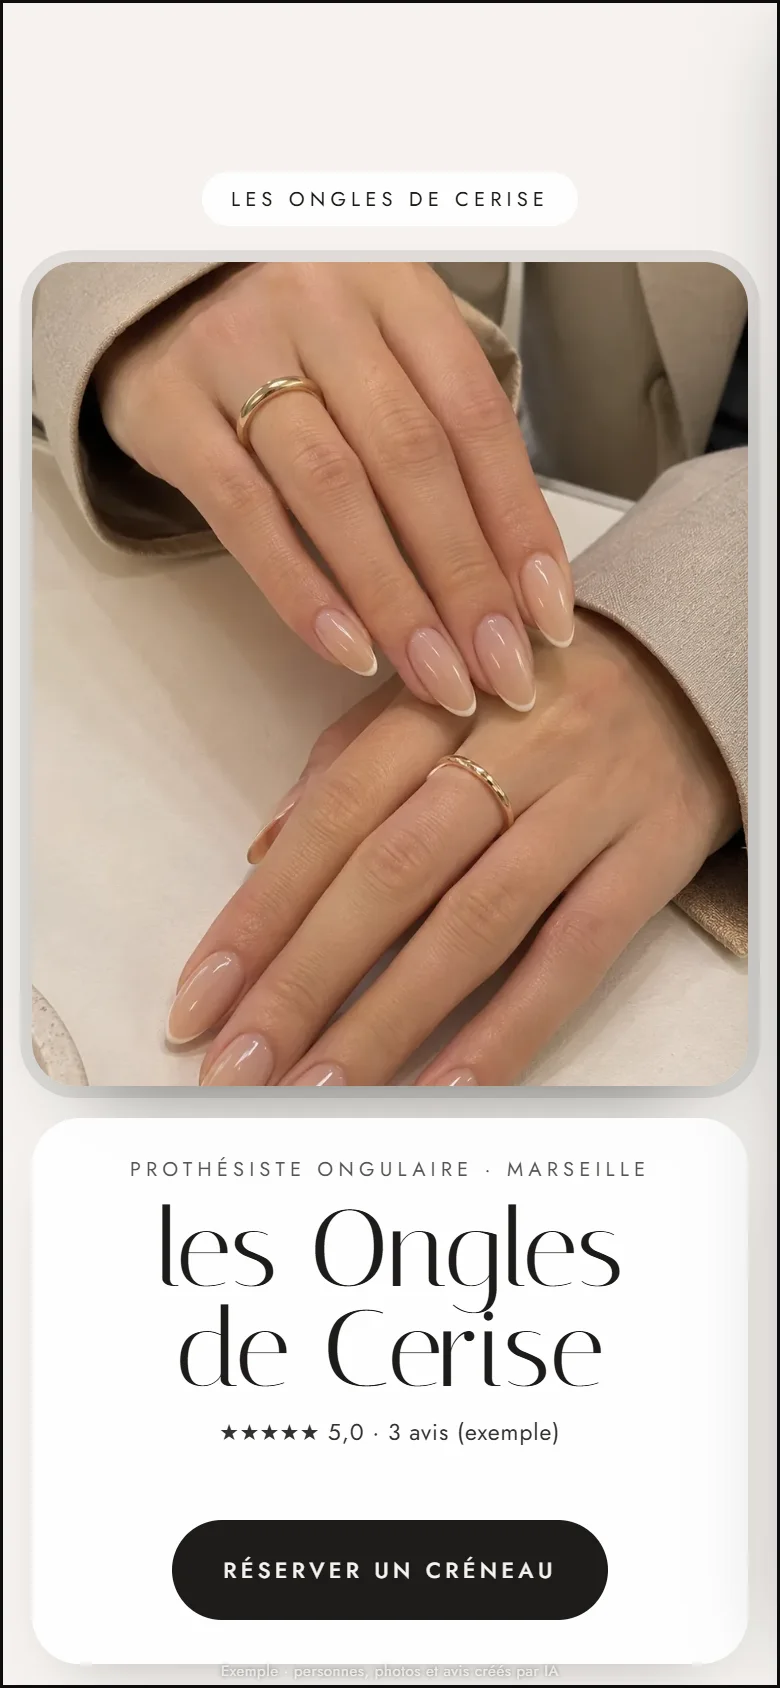
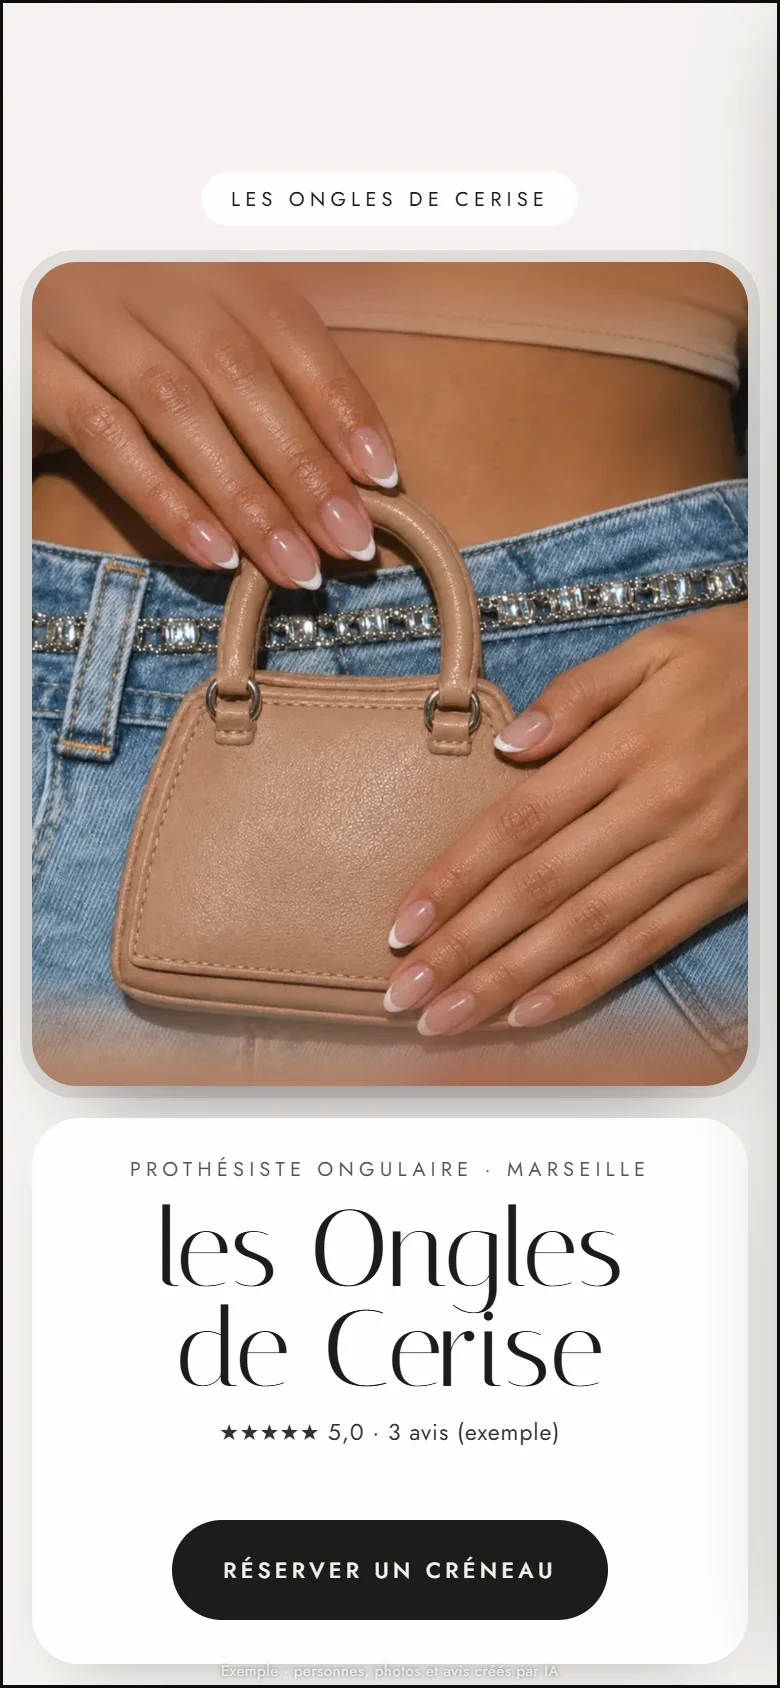
Accueil téléphone v23 : nouvelle photo french (IA) à l'étape « Prêt en 1 minute »

diff --git a/telephone.html b/telephone.html
@@ -219,7 +219,7 @@ details p{margin:10px 0 0;font-size:14px;color:#4a4440;line-height:1.55}
   <div class="b-tete"><div class="k" id="bNum">1 / 6 · votre site</div><div class="b-barre"><i id="bBarre"></i></div></div>
   <div class="b-fond" id="bFond"><i style="left:6%;animation-duration:9s"></i><i style="left:24%;animation-duration:12s;animation-delay:-5s;width:18px;height:20px"></i><i style="left:80%;animation-duration:10s;animation-delay:-2s"></i><i style="left:92%;animation-duration:13s;animation-delay:-8s;width:18px;height:20px"></i><i style="left:12%;animation-duration:11s;animation-delay:-7s;width:20px;height:22px"></i><i style="left:70%;animation-duration:14s;animation-delay:-10s;width:20px;height:22px"></i></div>
   <div class="b-telw"><div class="b-tel"><div class="b-ecr" id="bEcr">
-    <img class="c" data-c="1" src="loginail-site/apercus-univers/s1.webp" alt="" style="opacity:1">
+    <img class="c" data-c="1" src="loginail-site/apercus-univers/s1.webp?v=23" alt="" style="opacity:1">
     <img class="c" data-c="2" src="loginail-site/apercus-univers/s2.webp" alt="">
     <img class="c" data-c="3" src="loginail-site/apercus-univers/s3.webp" alt="">
     <img class="c" data-c="5" src="loginail-site/apercus-univers/s5.webp" alt="">
